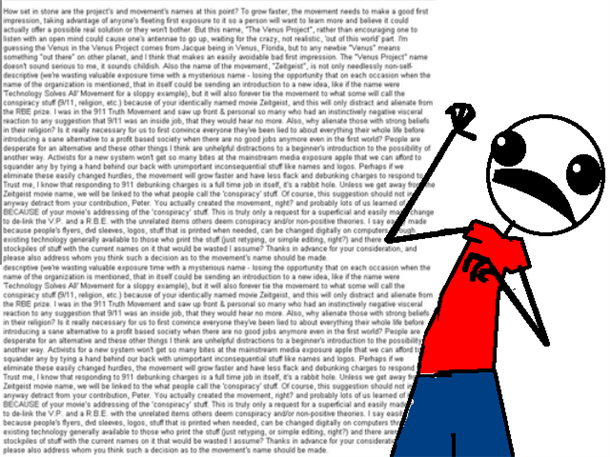
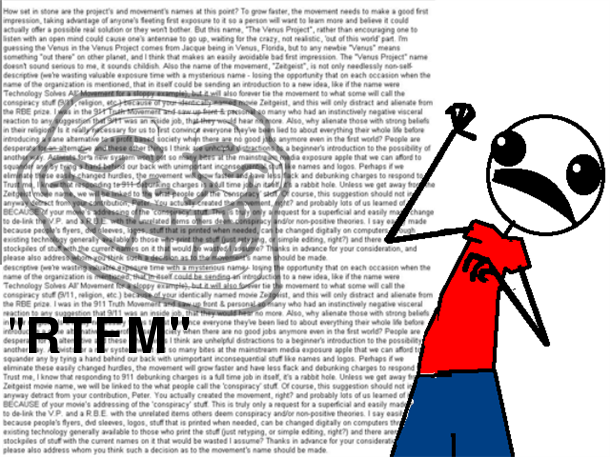
.

Changed region(s): [[0.0, 0.1838, 0.4984, 0.7965]]

diff --git a/presentations/logstash-puppetconf-2013/index.html b/presentations/logstash-puppetconf-2013/index.html
@@ -49,6 +49,8 @@
         </section>
 
         <section>
+          don't do this.
+          <br>
           <img src="images/wall-of-text.png" style="height: 100%;">
         </section>
 
